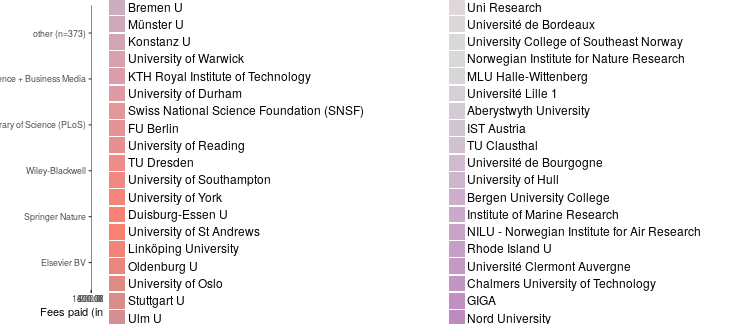
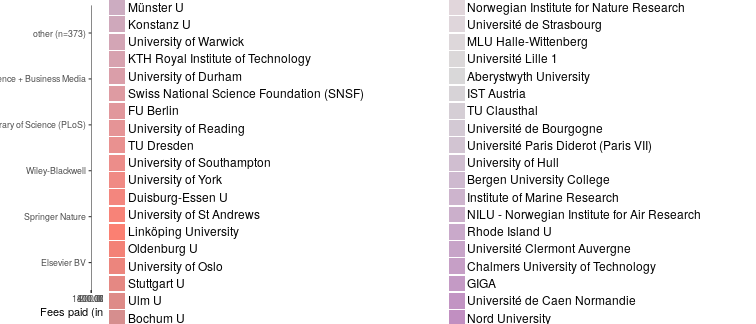
post: couperin additional data

diff --git a/about.md b/about.md
@@ -170,17 +170,23 @@ The [Couperin consortium](https://couperin.org) aggregates data on APC expenditu
 - Institut national de la recherche agronomique (INRA)
 - Institut national de la santé et de la recherche médicale (INSERM)
 - Institut national polytechnique de Toulouse (INPT)
+- Université d'Avignon et des Pays de Vaucluse
+- Université de Caen Normandie
 - Université Clermont Auvergne
+- Université de France-Comté
 - Université Lille 1
 - Université Lille 2
 - Université de Lorraine
 - Université Nice-Sophia-Antipolis
 - Université de Poitiers
 - Université de Rennes 1
+- Université de Strasbourg
 - Université de Toulon
 - Université Toulouse III
 - Université Paris Descartes (Paris V)
 - Université Pierre et Marie Curie (Paris VI)
+- Université Paris Diderot (Paris VII)
+
 
 ## Participating Institutions from the United Kingdom:
 
@@ -260,13 +266,13 @@ Jisc Collections released data on APC payments made by UK higher education insti
 
 Information on both open access journal articles and open access publication of articles in toll-access journals ("hybrid") are provided.
 
-In total,  105 248 525 € for  55 791 articles were paid by the participating unviversities. Average  fee is 1 886.5 € and the median 1 682 €.
+In total,  105 337 046 € for  55 850 articles were paid by the participating unviversities. Average  fee is 1 886.1 € and the median 1 681 €.
 
 ### Open Access Journals
 
 
 
-At the moment, the dataset releases information on 33 299 articles in open access journals which charge publication fees. Total expenditure amounts to  49 460 913 €. Average  fee is 1 485.4 € and the median 1 409 €.
+At the moment, the dataset releases information on 33 352 articles in open access journals which charge publication fees. Total expenditure amounts to  49 538 364 €. Average  fee is 1 485.3 € and the median 1 409 €.
 
 View dataset on [GitHub](https://github.com/OpenAPC/openapc-de/blob/master/data/apc_de.csv).
 
@@ -288,7 +294,7 @@ View dataset on [GitHub](https://github.com/OpenAPC/openapc-de/blob/master/data/
 |Bremen U                                                        |      390|           552,016|         1,415|  1,345|
 |Cardiff University                                              |      170|           290,741|         1,710|  1,557|
 |Chalmers University of Technology                               |        6|             5,817|           970|  1,012|
-|CNRS                                                            |      566|           833,311|         1,472|  1,260|
+|CNRS                                                            |      565|           832,121|         1,473|  1,260|
 |Cranfield University                                            |       10|            14,348|         1,435|  1,530|
 |Dalarna University College                                      |       28|            39,181|         1,399|  1,667|
 |Dortmund TU                                                     |       61|            75,727|         1,241|  1,426|
@@ -406,17 +412,22 @@ View dataset on [GitHub](https://github.com/OpenAPC/openapc-de/blob/master/data/
 |Uni Research                                                    |       19|            28,070|         1,477|  1,474|
 |Universitat de Barcelona                                        |      464|           443,269|           955|    899|
 |Université Clermont Auvergne                                    |       14|            22,368|         1,598|  1,350|
+|Université d'Avignon et des Pays de Vaucluse                    |        2|             2,310|         1,155|  1,155|
 |Université de Bordeaux                                          |       18|            25,745|         1,430|  1,258|
 |Université de Bourgogne                                         |       14|            19,358|         1,383|  1,275|
+|Université de Caen Normandie                                    |       12|            17,243|         1,437|  1,350|
+|Université de France-Comté                                      |       12|            14,767|         1,231|  1,184|
 |Université de Lorraine                                          |       20|            24,914|         1,246|  1,128|
 |Université de Poitiers                                          |        2|             2,948|         1,474|  1,474|
 |Université de Rennes 1                                          |       20|            26,569|         1,328|  1,202|
+|Université de Strasbourg                                        |       16|            24,672|         1,542|  1,387|
 |Université de Toulon                                            |        2|             5,150|         2,575|  2,575|
 |Université Grenoble Alpes                                       |        9|            10,378|         1,153|  1,165|
 |Université Lille 1                                              |       11|            15,099|         1,373|  1,266|
 |Université Lille 2                                              |       21|            29,150|         1,388|  1,256|
 |Université Nice-Sophia-Antipolis                                |        1|             1,202|         1,202|  1,202|
 |Université Paris Descartes (Paris V)                            |       35|            47,757|         1,364|  1,301|
+|Université Paris Diderot (Paris VII)                            |       12|            19,649|         1,637|  1,388|
 |Université Pierre et Marie Curie (Paris VI)                     |       32|            50,846|         1,589|  1,396|
 |Université Toulouse III - Paul Sabatier                         |       23|            39,591|         1,721|  1,350|
 |University College of Southeast Norway                          |       19|            19,107|         1,006|    907|
@@ -469,7 +480,7 @@ View dataset on [GitHub](https://github.com/OpenAPC/openapc-de/blob/master/data/
 
 
 In many toll-access journals some of the articles are open access after a fee has been paid. This model is often called "hybrid open access".
-The dataset covers 22 492 hybrid open access articles. Total expenditure amounts to  55 787 613 €. Average  fee is 2 480.3 € and the median 2 441 €.
+The dataset covers 22 498 hybrid open access articles. Total expenditure amounts to  55 798 682 €. Average  fee is 2 480.2 € and the median 2 440 €.
 
 The following institutions have contributed its expenditures for hybrid open access.
 
@@ -548,14 +559,17 @@ The following institutions have contributed its expenditures for hybrid open acc
 |Umeå University                                             |       23|            45,340|         1,971|  2,132|
 |Université de Bordeaux                                      |        1|             2,709|         2,709|  2,709|
 |Université de Bourgogne                                     |        1|             1,950|         1,950|  1,950|
+|Université de Caen Normandie                                |        1|               750|           750|    750|
 |Université de Lorraine                                      |        1|             1,370|         1,370|  1,370|
 |Université de Poitiers                                      |        2|             3,836|         1,918|  1,918|
 |Université de Rennes 1                                      |        1|             1,100|         1,100|  1,100|
+|Université de Strasbourg                                    |        2|             5,914|         2,957|  2,957|
 |Université de Toulon                                        |        1|             1,378|         1,378|  1,378|
 |Université Grenoble Alpes                                   |        1|               350|           350|    350|
 |Université Lille 1                                          |        5|            14,411|         2,882|  2,959|
 |Université Lille 2                                          |        1|             3,977|         3,977|  3,977|
 |Université Paris Descartes (Paris V)                        |        9|            16,978|         1,886|  2,033|
+|Université Paris Diderot (Paris VII)                        |        3|             4,405|         1,468|  1,500|
 |Université Pierre et Marie Curie (Paris VI)                 |        5|            12,458|         2,492|  2,275|
 |Université Toulouse III - Paul Sabatier                     |        1|             3,000|         3,000|  3,000|
 |University College West                                     |        4|             8,395|         2,099|  2,022|

diff --git a/_posts/2018-10-31-couperin.md b/_posts/2018-10-31-couperin.md
@@ -1,0 +1,55 @@
+---
+layout:     post
+author:     Christoph Broschinski
+author_lnk: https://github.com/cbroschinski
+title:      Couperin.org provides APC data for five more institutions
+date:       2018-10-31 08:00:00
+summary:    
+categories: [general, openAPC]
+comments: true
+---
+
+
+
+
+The [Couperin consortium](https://couperin.org) collects data on APC expenditures from universities and other research institutions in France. The next batch of data has now been made available to OpenAPC, containing articles for 5 more institutions.
+
+Contact Persons for Couperin are [Valerie Larroque](mailto:valerie.larroque@couperin.org) and [Sandrine Malotaux](mailto:sandrine.malotaux@inp-toulouse.fr).
+
+## Cost data
+
+
+
+The new data set provided by Couperin covers publication fees for 60 articles published in 2015. Total expenditure amounts to 89 710€ and the average fee is 1 495€.
+
+The data originates from the Université d'Avignon et des Pays de Vaucluse, the Université de Caen Normandie, the Université de France-Comté, the Université Paris Diderot (Paris VII) and the Université de Strasbourg.
+
+
+
+|                                                | Articles| Fees paid in EURO| Mean Fee paid|
+|:-----------------------------------------------|--------:|-----------------:|-------------:|
+|Public Library of Science (PLoS)                |       17|             22467|          1322|
+|Springer Nature                                 |       14|             27033|          1931|
+|Frontiers Media SA                              |        9|             11446|          1272|
+|MDPI AG                                         |        4|              5268|          1317|
+|Copernicus GmbH                                 |        3|              3834|          1278|
+|Elsevier BV                                     |        2|              4312|          2156|
+|IOP Publishing                                  |        2|              2880|          1440|
+|OMICS Publishing Group                          |        2|              1806|           903|
+|Optical Society of America (OSA)                |        2|              3307|          1653|
+|Proceedings of the National Academy of Sciences |        2|              2875|          1438|
+|BMJ                                             |        1|              2200|          2200|
+|Informa UK Limited                              |        1|               750|           750|
+|Oxford University Press (OUP)                   |        1|              1530|          1530|
+
+## Overview
+
+A detailed analysis of the contributed data provides the following overview:
+
+### Fees paid per publisher (in EURO)
+
+![plot of chunk tree_couperin_2018_10_31_full](/figure/tree_couperin_2018_10_31_full-1.png)
+
+###  Average costs per publisher (in EURO)
+
+![plot of chunk box_couperin_2018_10_31_publisher_full](/figure/box_couperin_2018_10_31_publisher_full-1.png)
